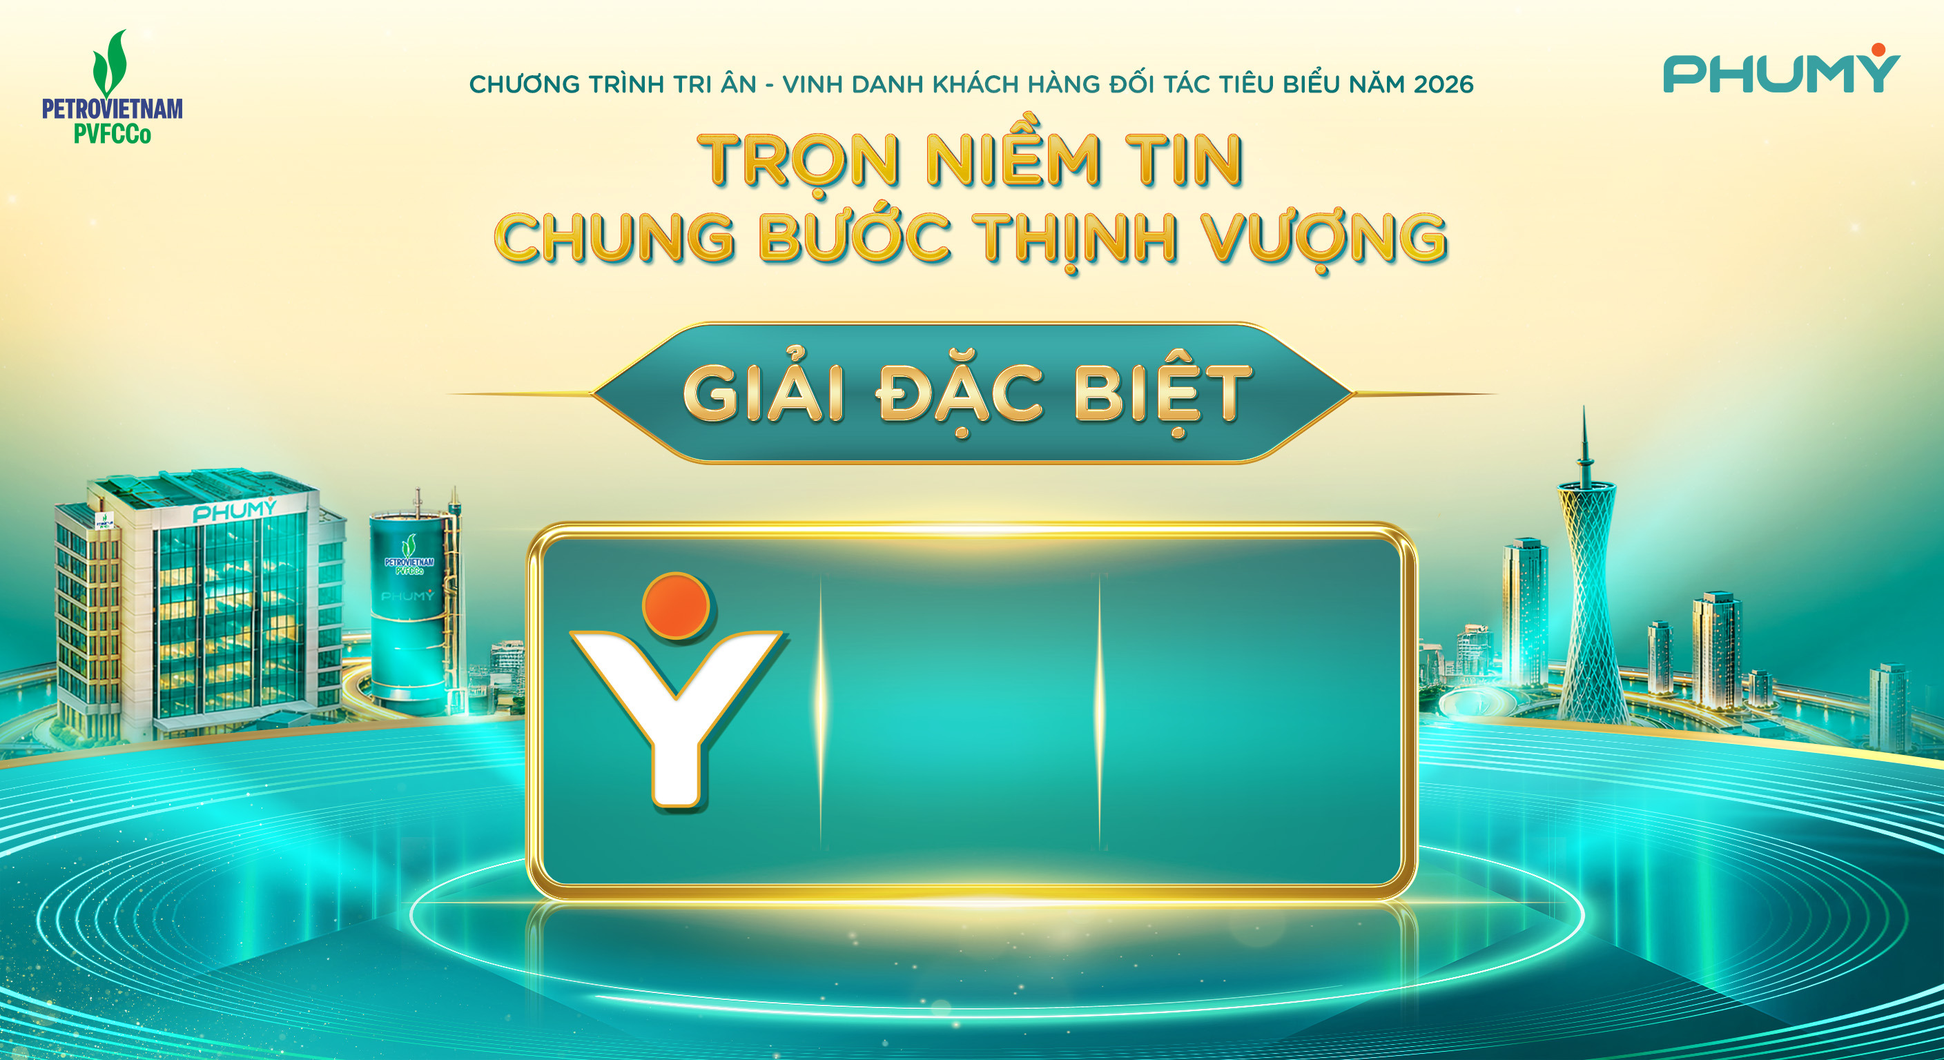
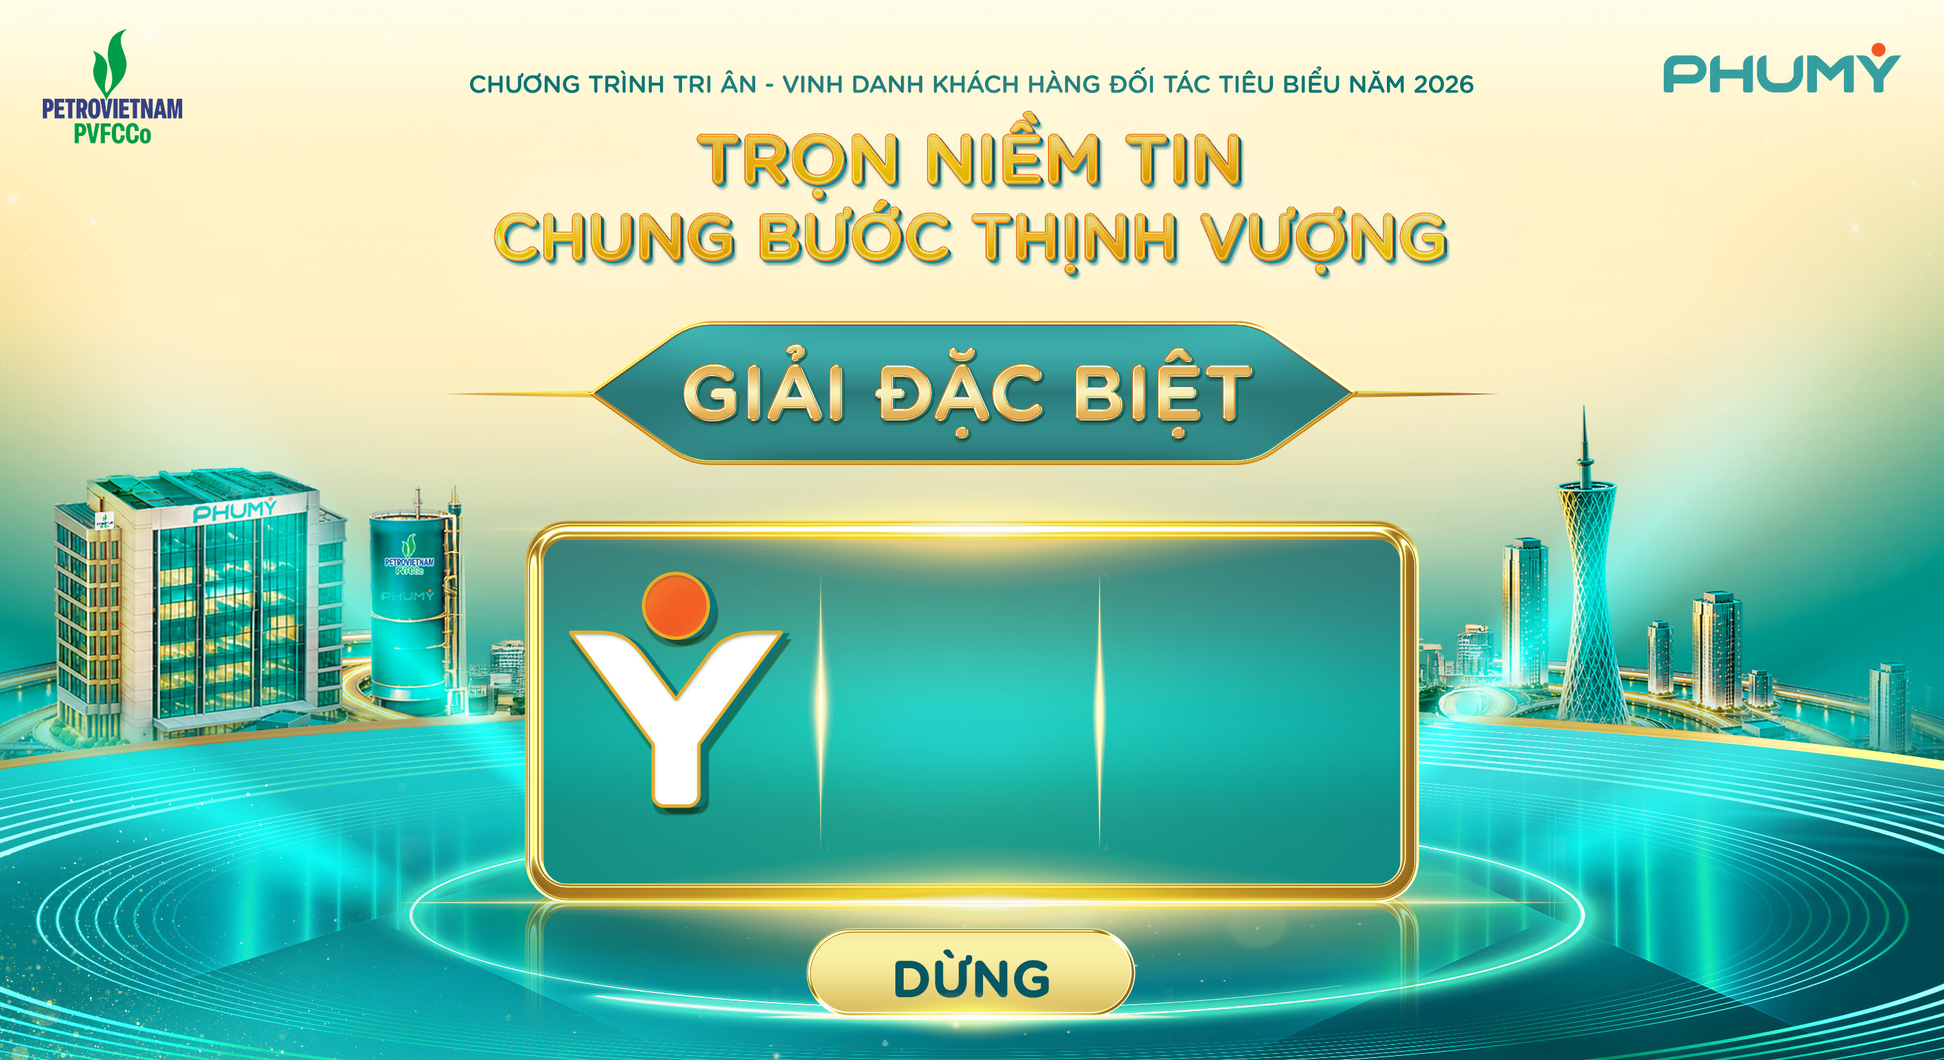
Restore regional quotas and sync latest lucky draw screens

Changed region(s): [[0.4062, 0.875, 0.5938, 1.0]]

diff --git a/tests/draw.test.js b/tests/draw.test.js
@@ -1,7 +1,7 @@
 import test from "node:test";
 import assert from "node:assert/strict";
 import fs from "node:fs";
-import { PRIZES, getEligiblePool, selectDraw, validateParticipants } from "../src/logic/generatePrizeQueue.js";
+import { PRIZES, THIRD_QUOTAS, getEligiblePool, selectDraw, validateParticipants } from "../src/logic/generatePrizeQueue.js";
 import { STORAGE_KEY, initialState, transition, restoreState, currentPrize } from "../src/logic/drawState.js";
 import { SPEED, stoppingPlan, stoppingPosition } from "../src/logic/reelMotion.js";
 import { hasResults, isResetKey, resetStoredState } from "../src/logic/reset.js";
@@ -35,6 +35,28 @@ test("first prize draws from the same nine people as second prize, minus the sec
   assert.ok(pool.every(p => p.pool === "main" && p.number !== history[15].participant.number));
 });
 
+test("confirmed Southwest guests and all seven regional pools have enough candidates", () => {
+  const counts = Object.fromEntries(Object.keys(THIRD_QUOTAS).map(region => [region,
+    people.filter(p => p.pool === "third" && p.region === region).length]));
+  assert.deepEqual(counts, { north: 16, central: 5, southeast: 4, southwest: 2, logistics: 10, xnk: 6, chemicals: 5 });
+  const southwest = people.filter(p => p.pool === "third" && p.region === "southwest");
+  assert.deepEqual(southwest.map(p => p.number), ["34", "35"]);
+  assert.ok(southwest.every(p => p.distributor.endsWith("Khu vực Tây Nam Bộ")));
+  assert.throws(() => validateParticipants(people.map(p => p.number === "34" || p.number === "35" ? { ...p, isEligible: false } : p)), /southwest/);
+  assert.throws(() => validateParticipants(people.map(p => p.number === "34" ? { ...p, region: "unknown" } : p)), /vùng\/khối/);
+});
+
+test("a full region is immediately excluded; a Southwest winner removes the other Southwest guest", () => {
+  const southwest = people.find(p => p.number === "34");
+  const history = [{ prizeType: "third", participant: southwest }];
+  assert.ok(getEligiblePool(people, history).every(p => p.region !== "southwest"));
+  for (const region of Object.keys(THIRD_QUOTAS)) {
+    const pool = people.filter(p => p.pool === "third" && p.region === region);
+    const history = pool.slice(0, THIRD_QUOTAS[region]).map(participant => ({ prizeType: "third", participant }));
+    assert.ok(getEligiblePool(people, history).every(p => p.region !== region));
+  }
+});
+
 test("1000 seeded full draws keep prize order, lists and no repeat winners", () => {
   let seed = 2026;
   const choose = length => { seed = (Math.imul(seed, 1664525) + 1013904223) >>> 0; return Math.floor(seed / 2 ** 32 * length); };
@@ -48,6 +70,11 @@ test("1000 seeded full draws keep prize order, lists and no repeat winners", () 
       history.push(draw);
     }
     assert.equal(new Set(history.map(d => d.participant.number)).size, 18);
+    const regionCounts = history.slice(0, 15).reduce((counts, d) => {
+      counts[d.participant.region] = (counts[d.participant.region] || 0) + 1;
+      return counts;
+    }, {});
+    assert.deepEqual(regionCounts, THIRD_QUOTAS);
     assert.equal(selectDraw(people, history), null);
   }
 });
@@ -110,6 +137,9 @@ test("incomplete or tampered state fails instead of silently resetting the event
   assert.throws(() => restoreState(JSON.stringify({ history: drawUntil(PRIZES.length), phase: "standby" }), people));
   history[1] = history[0];
   assert.throws(() => restoreState(JSON.stringify({ history, phase: "winner" }), people));
+  const overflow = people.filter(p => p.pool === "third" && p.region === "central")
+    .slice(0, 4).map(participant => ({ prizeType: "third", participant }));
+  assert.throws(() => restoreState(JSON.stringify({ history: overflow, phase: "winner" }), people), /Lịch sử/);
 });
 
 test("every digit and stagger stops forward at the exact digit with continuous initial velocity", () => {

diff --git a/src/components/DrawScreen.jsx b/src/components/DrawScreen.jsx
@@ -12,8 +12,9 @@ const INPUT_GUARD_MS = 800;
 const KEYS = [" ", "Enter", "ArrowRight", "PageDown"];
 const DIGIT_FONT = '700 100px "Gotham Rounded"';
 // Button positions on the designer's 2816x1536 screens.
-const START_BUTTON = { left: 1090, top: 1352, width: 640, height: 158 };
-const CONTINUE_BUTTON = { left: 1165, top: 1340, width: 486, height: 140 };
+const START_BUTTON = { left: 1160, top: 1395, width: 500, height: 122 };
+const STOP_BUTTON = { left: 1168, top: 1345, width: 480, height: 126 };
+const CONTINUE_BUTTON = { left: 1168, top: 1345, width: 480, height: 126 };
 
 export default function DrawScreen() {
   const { phase, prize, pending, lastPrize, start, stop, settled, next } = usePrizeFlow();
@@ -49,7 +50,7 @@ export default function DrawScreen() {
 
   // Holding and settling happen in one batched update, so the announcement never flashes early.
   const onSettled = useCallback(() => { setHolding(true); settled(); }, [settled]);
-  const hasButton = screen === "standby" || (screen === "announce" && prize === "third");
+  const hasButton = screen === "standby" || screen === "spin" || (screen === "announce" && prize === "third");
 
   return (
     <Stage onClick={hasButton ? undefined : advance}>
@@ -58,6 +59,8 @@ export default function DrawScreen() {
         {screen === "standby" && <Hotspot box={START_BUTTON} label="Bắt đầu" onClick={advance} />}
         {screen === "spin" && <SlotMachine number={(pending ?? lastPrize).participant.number}
           isSpinning={phase === "spinning"} onSettled={onSettled} />}
+        {screen === "spin" && <Hotspot box={STOP_BUTTON} label="Dừng" onClick={advance}
+          disabled={phase !== "spinning"} />}
         {screen === "announce" && <Announcement participant={lastPrize.participant} />}
         {screen === "announce" && prize === "third" && <Hotspot box={CONTINUE_BUTTON} label="Tiếp tục" onClick={advance} />}
       </>}
@@ -94,8 +97,12 @@ function Announcement({ participant }) {
   </>;
 }
 
-function Hotspot({ box, label, onClick }) {
-  return <button type="button" aria-label={label} tabIndex={-1} className="hotspot" style={box}
+function Hotspot({ box, label, onClick, disabled = false }) {
+  return <button type="button" aria-label={label} disabled={disabled} className="hotspot" style={box}
     onMouseDown={event => event.preventDefault()}
+    onKeyDown={event => {
+      // Global handler owns the presenter keys; prevent a second synthetic button click.
+      if (KEYS.includes(event.key)) event.preventDefault();
+    }}
     onClick={event => { event.stopPropagation(); onClick(); }} />;
 }

diff --git a/src/logic/generatePrizeQueue.js b/src/logic/generatePrizeQueue.js
@@ -1,12 +1,22 @@
 export const PRIZES = [...Array(15).fill("third"), "second", "first", "special"];
 // Giải nhất và giải nhì quay chung một danh sách.
 export const PRIZE_POOLS = { third: "third", second: "main", first: "main", special: "special" };
+export const THIRD_QUOTAS = {
+  north: 4, central: 3, southeast: 2, southwest: 1,
+  logistics: 2, xnk: 2, chemicals: 1,
+};
 
 export function getEligiblePool(participants, history) {
   const prize = PRIZES[history.length];
   if (!prize) return [];
   const won = new Set(history.map(d => d.participant.number));
-  return participants.filter(p => p.pool === PRIZE_POOLS[prize] && p.isEligible !== false && !won.has(p.number));
+  const regionWins = history.filter(d => d.prizeType === "third").reduce((counts, draw) => {
+    const region = draw.participant.region;
+    counts[region] = (counts[region] || 0) + 1;
+    return counts;
+  }, {});
+  return participants.filter(p => p.pool === PRIZE_POOLS[prize] && p.isEligible !== false && !won.has(p.number)
+    && (prize !== "third" || (regionWins[p.region] || 0) < (THIRD_QUOTAS[p.region] || 0)));
 }
 export function randomIndex(length) {
   if (!Number.isInteger(length) || length < 1) throw new Error("Pool không hợp lệ.");
@@ -29,5 +39,11 @@ export function validateParticipants(participants) {
     const prizes = PRIZES.filter(prize => PRIZE_POOLS[prize] === pool).length;
     if (participants.filter(p => p.pool === pool && p.isEligible !== false).length < prizes)
       throw new Error(`Danh sách "${pool}" không đủ ${prizes} người.`);
+  }
+  if (participants.some(p => p.pool === "third" && !Object.hasOwn(THIRD_QUOTAS, p.region)))
+    throw new Error("Có người giải ba chưa được gán vùng/khối hợp lệ.");
+  for (const [region, quota] of Object.entries(THIRD_QUOTAS)) {
+    if (participants.filter(p => p.pool === "third" && p.region === region && p.isEligible !== false).length < quota)
+      throw new Error(`Vùng/khối "${region}" không đủ ${quota} người cho giải ba.`);
   }
 }

diff --git a/src/logic/drawState.js b/src/logic/drawState.js
@@ -1,5 +1,6 @@
 import { selectDraw, getEligiblePool, PRIZES } from "./generatePrizeQueue.js";
-export const STORAGE_KEY = "lucky_draw_2026_v2";
+// Keep sessions from the former unrestricted draw intact under v2, but never reuse them here.
+export const STORAGE_KEY = "lucky_draw_2026_v3";
 const PHASES = ["standby", "spinning", "stopping", "winner", "award"];
 export const initialState = () => ({ history: [], pending: null, phase: "standby" });
 const prizeFinished = history => history.length > 0 && PRIZES[history.length] !== history.at(-1).prizeType;

diff --git a/src/index.css b/src/index.css
@@ -57,13 +57,16 @@ body {
   transition: box-shadow 150ms;
 }
 
-.hotspot:hover {
+.hotspot:not(:disabled):hover,
+.hotspot:focus-visible {
   box-shadow: 0 0 48px rgba(255, 226, 140, 0.55);
 }
 
-.hotspot:active {
+.hotspot:not(:disabled):active {
   box-shadow: 0 0 64px rgba(255, 226, 140, 0.85);
 }
+
+.hotspot:disabled { cursor: default; }
 
 .digit {
   font-family: "Gotham Rounded", sans-serif;

diff --git a/scripts/import_participants.py b/scripts/import_participants.py
@@ -14,6 +14,33 @@ from pathlib import Path
 NS = {"m": "http://schemas.openxmlformats.org/spreadsheetml/2006/main"}
 REL = "{http://schemas.openxmlformats.org/officeDocument/2006/relationships}id"
 MINIMUM = {"third": 15, "main": 2, "special": 1}
+REGIONS = {"Miền Bắc": "north", "Miền Trung": "central",
+           "Đông Nam Bộ": "southeast", "Tây Nam Bộ": "southwest"}
+# Client confirmed on 2026-11-28: the new workbook mislabeled these two NPPs as North.
+SOUTHWEST_CODES = {"34", "35"}  # Hữu Thành, Tân Thành
+
+
+def participant_from_row(row, pool):
+    code = re.fullmatch(r"Y\s*(\d{1,2})", row["B"], re.IGNORECASE)
+    if not code:
+        raise ValueError(f"Mã không hợp lệ: {row['B']}")
+    number = code.group(1).zfill(2)
+    distributor = row.get("D") or row.get("C", "")
+    if number in SOUTHWEST_CODES and pool == "third":
+        distributor = distributor.replace("Khu vực Miền Bắc", "Khu vực Tây Nam Bộ")
+        region = "southwest"
+    elif pool == "third" and 52 <= int(number) <= 61:
+        region = "logistics"
+    elif pool == "third" and 62 <= int(number) <= 67:
+        region = "xnk"
+    elif pool == "third" and 68 <= int(number) <= 72:
+        region = "chemicals"
+    else:
+        region = next((value for label, value in REGIONS.items() if f"Khu vực {label}" in distributor), None)
+    if not region:
+        raise ValueError(f"Không xác định được vùng/khối cho mã Y{number}")
+    return dict(number=number, name=row.get("E", ""), distributor=distributor,
+                pool=pool, region=region, isEligible=True)
 
 
 def clean(text):
@@ -58,11 +85,7 @@ def main(workbook):
         if label.upper().startswith("GIẢI"):
             pool = pool_of(label)
         elif pool and label.isdigit() and row.get("B"):
-            code = re.fullmatch(r"Y\s*(\d{1,2})", row["B"], re.IGNORECASE)
-            if not code:
-                sys.exit(f"Mã không hợp lệ: {row['B']}")
-            people.append(dict(number=code.group(1).zfill(2), name=row.get("E", ""),
-                               distributor=row.get("D") or row.get("C", ""), pool=pool, isEligible=True))
+            people.append(participant_from_row(row, pool))
     numbers = [p["number"] for p in people]
     duplicates = sorted({n for n in numbers if numbers.count(n) > 1})
     if duplicates:

diff --git a/tests/test_import_participants.py b/tests/test_import_participants.py
@@ -1,0 +1,33 @@
+import sys
+import unittest
+from pathlib import Path
+
+sys.path.insert(0, str(Path(__file__).resolve().parents[1] / "scripts"))
+from import_participants import participant_from_row
+
+
+class ParticipantImportTest(unittest.TestCase):
+    def test_confirmed_southwest_override_survives_reimport(self):
+        for number, company in [(34, "Hữu Thành"), (35, "Tân Thành")]:
+            row = {"B": f"Y {number}", "D": f"NPP {company} - Khu vực Miền Bắc", "E": "Khách hàng"}
+            person = participant_from_row(row, "third")
+            self.assertEqual(person["region"], "southwest")
+            self.assertEqual(person["distributor"], f"NPP {company} - Khu vực Tây Nam Bộ")
+            self.assertTrue(row["D"].endswith("Miền Bắc"))  # Source row is never mutated.
+
+    def test_business_blocks_and_regular_region_labels(self):
+        for number, region in [(52, "logistics"), (61, "logistics"), (62, "xnk"),
+                               (67, "xnk"), (68, "chemicals"), (72, "chemicals")]:
+            person = participant_from_row({"B": f"Y{number}", "D": "Tên công ty", "E": "Khách hàng"}, "third")
+            self.assertEqual(person["region"], region)
+        person = participant_from_row({"B": "Y 01", "D": "NPP - Khu vực Miền Trung", "E": "Khách hàng"}, "special")
+        self.assertEqual(person["region"], "central")
+        self.assertEqual(person["number"], "01")
+
+    def test_unknown_region_is_reported(self):
+        with self.assertRaisesRegex(ValueError, "Không xác định"):
+            participant_from_row({"B": "Y25", "D": "NPP thiếu vùng", "E": "Khách hàng"}, "third")
+
+
+if __name__ == "__main__":
+    unittest.main()

diff --git a/README.md b/README.md
@@ -1,6 +1,6 @@
 # Lucky draw 2026
 
-Giao diện theo thiết kế "Trọn niềm tin – Chung bước thịnh vượng", khổ 2816×1536 đúng bằng màn LED trung tâm (tự co giãn vừa màn hình khác, không bị cắt). Chạy với Node.js 20+:
+Giao diện theo thiết kế "Trọn niềm tin – Chung bước thịnh vượng", khổ 2816×1536 đúng bằng màn LED trung tâm (tự co giãn vừa màn hình khác, không bị cắt). Chạy với Node.js 20+; kiểm tra bộ nhập dữ liệu cần Python 3.9+:
 
 ```sh
 npm ci
@@ -12,14 +12,16 @@ npm run build
 ## Quy tắc
 
 - 15 giải ba → 1 giải nhì → 1 giải nhất → 1 giải đặc biệt; mỗi lượt một người.
-- Giải ba: 48 người (Y25–Y72), quay ngẫu nhiên, không chia quota theo khu vực.
+- Giải ba: 48 người (Y25–Y72), quay đúng quota: Bắc 4, Trung 3, Đông Nam Bộ 2, Tây Nam Bộ 1, Logistics 2, XNK 2, Hóa chất 1. Vùng/khối đủ quota bị loại khỏi các lượt còn lại; mỗi người còn hợp lệ có xác suất bằng nhau.
 - Giải nhì và nhất: quay chung 9 người (Y10–Y15, Y17, Y18, Y20); người đã trúng giải nhì không quay tiếp giải nhất.
 - Giải đặc biệt: 4 người (Y01, Y02, Y04, Y06).
 - Một người chỉ trúng một lần. Chọn đều giữa những người còn hợp lệ bằng Web Crypto.
 
 ## Dữ liệu
 
-61 người trong `src/data/participants.json`, lấy từ file "DS CODE BỐC THĂM TRÚNG THƯỞNG": mã `Y NN` (lưu 2 chữ số), tên kèm Ông/Bà (cột E), dòng NPP hiển thị (cột D) và danh sách quay (`third`, `main` = nhất & nhì, `special`). Đặt `"isEligible": false` để loại một người vắng mặt.
+61 người trong `src/data/participants.json`, lấy từ file "DS CODE BỐC THĂM TRÚNG THƯỞNG": mã `Y NN` (lưu 2 chữ số), tên kèm Ông/Bà (cột E), dòng NPP hiển thị (cột D), vùng/khối (`region`) và danh sách quay (`third`, `main` = nhất & nhì, `special`). Đặt `"isEligible": false` để loại một người vắng mặt; ứng dụng kiểm tra đủ người cho từng quota.
+
+Theo xác nhận khách hàng ngày 28/11/2026, Y34 (Hữu Thành) và Y35 (Tân Thành) thuộc Tây Nam Bộ. Bộ nhập Excel sửa cả vùng tính quota và dòng NPP hiển thị cho hai mã này, dù file nguồn ghi miền Bắc. Y52–Y61 là Logistics, Y62–Y67 là XNK, Y68–Y72 là Hóa chất, theo các danh sách khách gốc.
 
 Nhập lại từ Excel (sẽ ghi đè danh sách JSON):
 
@@ -29,7 +31,7 @@ python3 scripts/import_participants.py /path/to/data.xlsx
 
 ## Màn hình
 
-Mỗi giải có 4 màn hình: Stand by → Quay số → Công bố → Trao giải. Ảnh nằm trong `assets/screens/`; mã, tên và dòng NPP do app vẽ lên. Khi quay, số nhòe theo tốc độ rồi rõ dần khi dừng. Khi designer cập nhật ảnh, tải thư mục Drive "LUCKY DRAW" rồi chạy (cần `pip install pillow numpy`):
+Mỗi giải có 4 màn hình: Stand by → Quay số → Công bố → Trao giải. Ảnh nằm trong `assets/screens/`, đồng bộ từ bộ thiết kế Drive ngày 28/11/2026; mã, tên và dòng NPP do app vẽ lên. Khi quay, số nhòe theo tốc độ rồi rõ dần khi dừng, giữ tốc độ `0.01`. Khi designer cập nhật ảnh, tải thư mục Drive "LUCKY DRAW" rồi chạy (cần `pip install pillow numpy`):
 
 ```sh
 python3 scripts/prepare_screens.py "/path/to/LUCKY DRAW"
@@ -42,12 +44,12 @@ Script xóa chữ mẫu trên màn Quay số và Công bố theo vị trí trong
 | Màn hình | Thao tác |
 |---|---|
 | Stand by | Bấm **Bắt đầu**, hoặc phím Space / Enter / → / PageDown |
-| Quay số | Bấm chuột bất kỳ đâu hoặc các phím trên để dừng |
+| Quay số | Bấm đúng nút **Dừng** hoặc các phím trên; bấm ngoài nút không dừng. Nút bị khóa khi đang giảm tốc/chờ công bố |
 | Công bố | Giải ba: bấm **Tiếp tục** để quay luôn lượt kế tiếp (sau người thứ 15 sang Trao giải). Giải khác: bấm chuột hoặc phím để sang Trao giải |
 | Trao giải | Bấm chuột hoặc phím để sang Stand by của giải tiếp theo |
 
 Remote trình chiếu thường gửi PageDown / → nên dùng được. Khi mở trang, màn hình đen tới khi tải xong toàn bộ ảnh nền và font; mọi ảnh nền được giữ sẵn nên khi đổi màn, ảnh nền và số/chữ hiện cùng lúc. Sau mỗi lần đổi màn hình, app bỏ qua thao tác trong 0,8 giây để tránh bấm đúp. Sau khi hai ô số dừng, giữ mã 1,5 giây rồi công bố. Animation dùng requestAnimationFrame, vị trí theo thời gian và transform; thay đổi kích thước không thay đổi mã đích.
 
-Chỉ vận hành bằng một tab trình duyệt trên laptop (F11 để toàn màn hình) rồi mirror màn hình. Phiên được lưu tại localStorage `lucky_draw_2026_v2`; reload khi đang quay sẽ về Stand by với đúng người đã chọn, reload sau khi dừng sẽ khôi phục người trúng. Để chạy thử lại, đóng các tab khác rồi nhấn phím **R** (không kèm Ctrl/Alt/Cmd) ở bất kỳ màn hình nào và xác nhận: app xóa đúng key này và về Stand by giải ba đầu tiên. Thao tác không thể hoàn tác; bấm Cancel để giữ nguyên kết quả và không nhấn R khi đang chạy sự kiện. Nếu dữ liệu đã lưu không hợp lệ hoặc không lưu được, app hiện thông báo lỗi; nhấn R và xác nhận để xóa dữ liệu lỗi và bắt đầu lại. Nếu không xóa được localStorage, app báo lỗi và giữ nguyên dữ liệu cũ.
+Chỉ vận hành bằng một tab trình duyệt trên laptop (F11 để toàn màn hình) rồi mirror màn hình. Phiên được lưu tại localStorage `lucky_draw_2026_v3`; reload khi đang quay sẽ về Stand by với đúng người đã chọn, reload sau khi dừng sẽ khôi phục người trúng. Phiên quay tự do cũ ở key `v2` vẫn được giữ nhưng không được sử dụng cho luật quota mới. Để chạy thử lại, đóng các tab khác rồi nhấn phím **R** (không kèm Ctrl/Alt/Cmd) ở bất kỳ màn hình nào và xác nhận: app xóa đúng key này và về Stand by giải ba đầu tiên. Thao tác không thể hoàn tác; bấm Cancel để giữ nguyên kết quả và không nhấn R khi đang chạy sự kiện. Nếu dữ liệu đã lưu không hợp lệ hoặc không lưu được, app hiện thông báo lỗi; nhấn R và xác nhận để xóa dữ liệu lỗi và bắt đầu lại. Nếu không xóa được localStorage, app báo lỗi và giữ nguyên dữ liệu cũ.
 
 Chưa có âm thanh, nhập danh sách qua giao diện hay backend đồng bộ.
